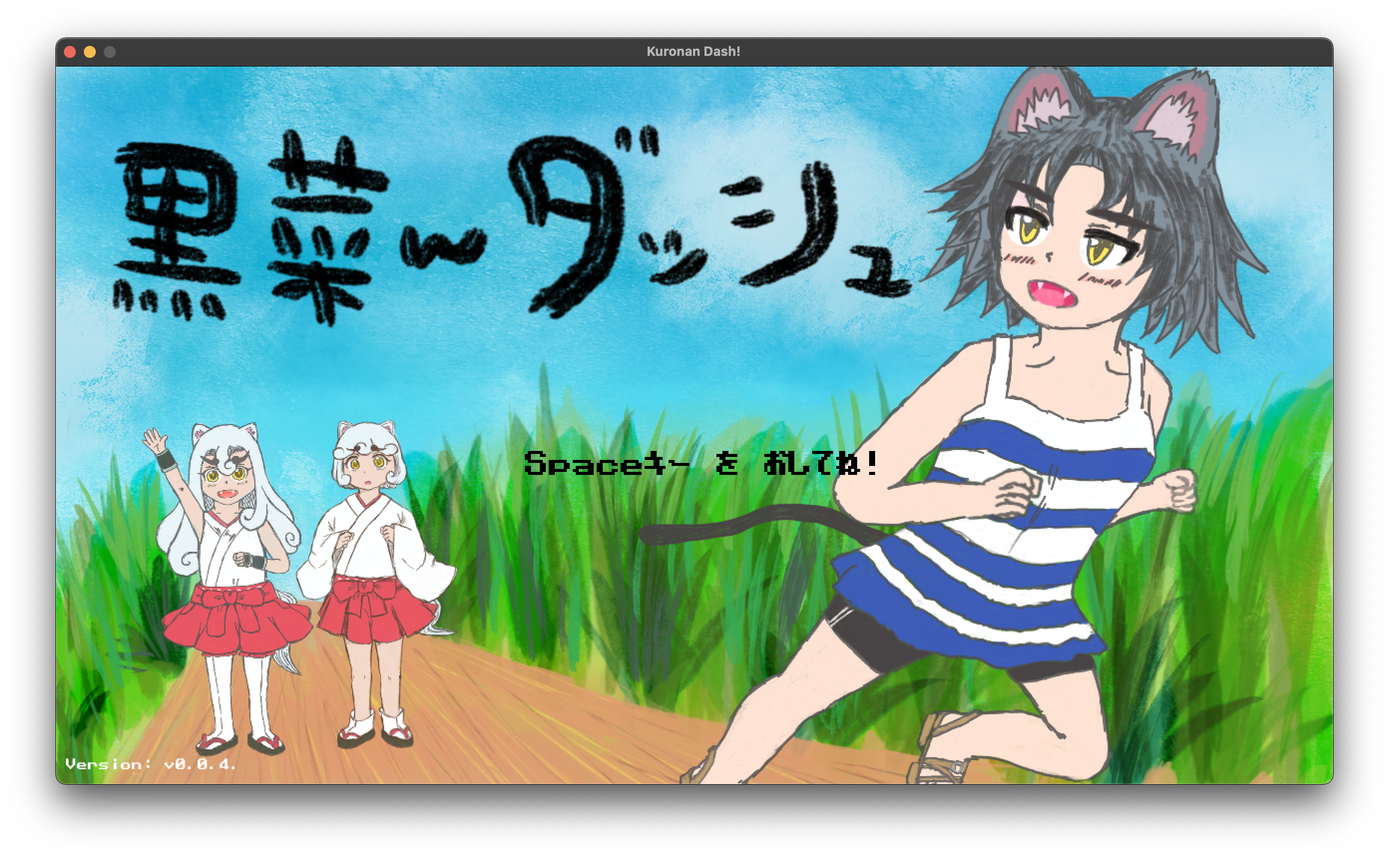
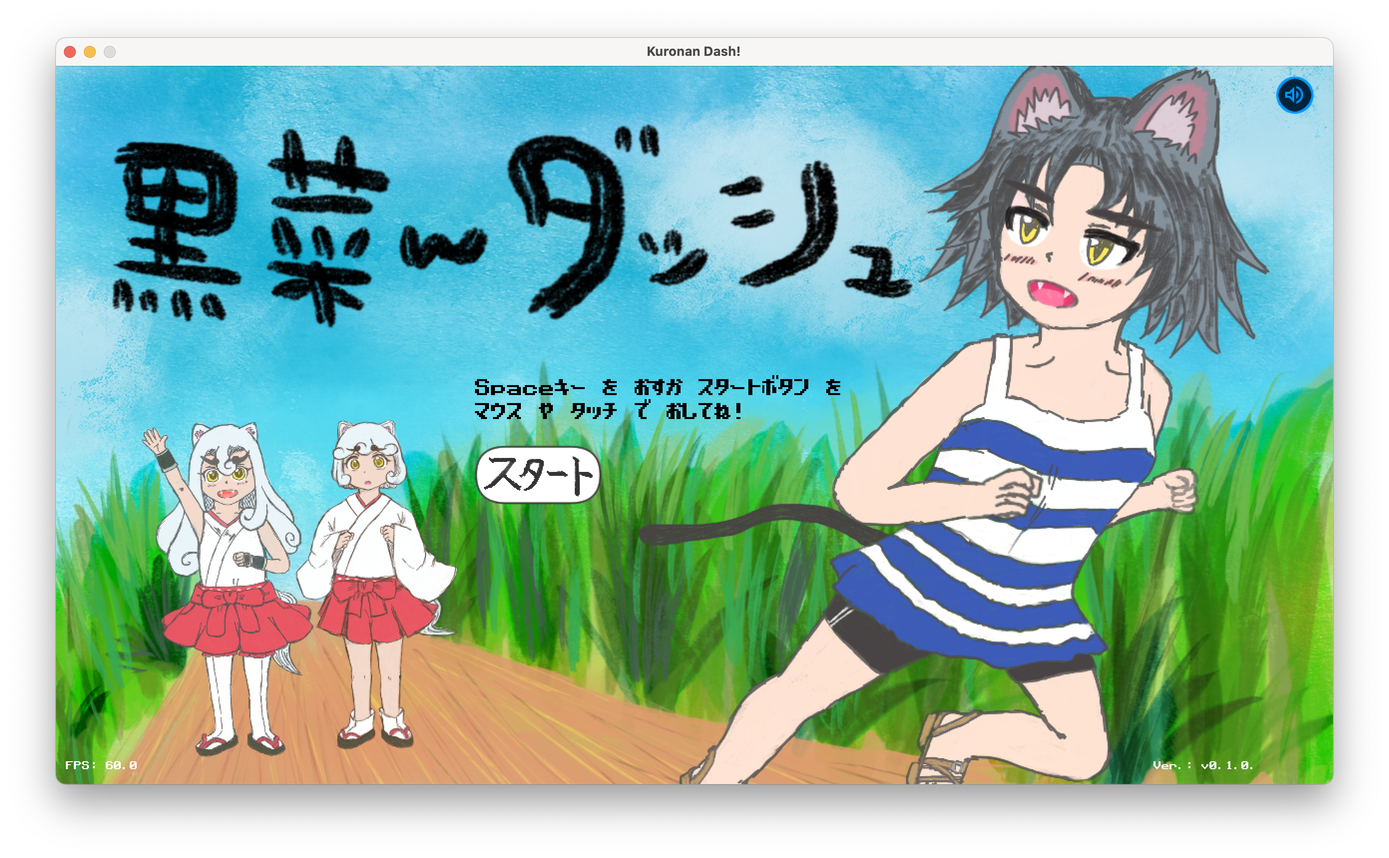
docs: update screen sample and description

Changed region(s): [[0.0312, 0.0308, 0.9688, 0.9552], [0.3438, 0.4314, 0.625, 0.5855]]

diff --git a/assets/messages/ui_texts.go b/assets/messages/ui_texts.go
@@ -2,13 +2,14 @@ package messages
 
 // Texts for UI
 const (
-	TitleStart      = "Spaceキー を おしてね！ \nマウスクリック でも OK!"
-	SelectStart     = "さゆう の カーソルキー で キャラクター を えらんで スペースキー を おしてね！ マウスクリック でも OK!"
-	GameStart       = "Spaceキー を おすか スタートボタン を\nマウス で おして ゲーム を はじめよう！"
+	TitleStart      = "Spaceキー を おすか スタートボタン を\nマウス や タッチ で おしてね！"
+	SelectStart     = "さゆう の カーソルキー を おすか マウス や タッチ で キャラ を えらんだら スペースキー を おすか しゅっぱつボタン を おしてね"
+	GameStart       = "Spaceキー を おすか\nボタン を マウス や タッチ で おしてね！"
 	GameReady       = "Ready?"
 	GameGo          = "Go!"
 	GamePause       = "いちじ ていし しているよ！"
-	GameStageClear  = "やったね！ステージクリアーだよ！"
-	GameStageClear2 = "Spaceキー を おすか マウス を クリック して つぎのステージへすすもう。"
-	GameOver        = "ゲームオーバー！ Spaceキー を おして タイトル へ もどろう"
+	GameStageClear  = "やったね！ ステージクリアー だよ！"
+	GameStageClear2 = "Spaceキー を おすか マウス や タッチ で ボタン を おして"
+	GameStageClear3 = "つぎの ステージ へ すすもう。"
+	GameOver        = "ゲームオーバー！ Spaceキー を おすか ボタン を おして タイトル へ もどろう"
 )

diff --git a/internal/scenes/scene_title.go b/internal/scenes/scene_title.go
@@ -14,6 +14,7 @@ import (
 	vpad "github.com/kemokemo/ebiten-virtualpad"
 	"github.com/kemokemo/kuronan-dash/assets/fonts"
 	"github.com/kemokemo/kuronan-dash/assets/images"
+	"github.com/kemokemo/kuronan-dash/assets/messages"
 	"github.com/kemokemo/kuronan-dash/assets/music"
 	"github.com/kemokemo/kuronan-dash/assets/se"
 	"github.com/kemokemo/kuronan-dash/internal/input"
@@ -54,7 +55,7 @@ func (s *TitleScene) Initialize() error {
 		X: float64(view.ScreenWidth/2) - 200,
 		Y: float64(view.ScreenHeight/2) + 50}
 	s.startTitleBtn = vpad.NewTriggerButton(images.StartTitleButton, vpad.JustReleased, vpad.SelectColor)
-	s.startTitleBtn.SetLocation(view.ScreenWidth/2-64, view.ScreenHeight/2-30)
+	s.startTitleBtn.SetLocation(view.ScreenWidth/2-220, view.ScreenHeight/2+20)
 	s.startTitleBtn.SetTriggerButton([]ebiten.Key{ebiten.KeySpace})
 	s.volumeBtn = vpad.NewSelectButton(images.VolumeOffButton, vpad.JustPressed, vpad.SelectColor)
 	s.volumeBtn.SetLocation(view.ScreenWidth-58, 10)
@@ -129,6 +130,7 @@ func (s *TitleScene) Draw(screen *ebiten.Image) {
 	text.Draw(screen, versionInfo, fonts.GamerFontSS, view.ScreenWidth-180, view.ScreenHeight-15, color.White)
 	s.startTitleBtn.Draw(screen)
 	s.volumeBtn.Draw(screen)
+	text.Draw(screen, messages.TitleStart, fonts.GamerFontM, view.ScreenWidth/2-220, view.ScreenHeight/2-30, color.Black)
 
 	if s.isStarting || s.isClosing {
 		s.curtain.Draw(screen)

diff --git a/internal/scenes/scene_stage01.go b/internal/scenes/scene_stage01.go
@@ -388,7 +388,8 @@ func (s *Stage01Scene) drawWithState(screen *ebiten.Image) {
 		text.Draw(screen, fmt.Sprintf("Music: %s", s.disc.Name), fonts.GamerFontS, 10, 20, color.White)
 		screen.DrawImage(s.pauseBg, s.pauseBgOp)
 		text.Draw(screen, messages.GameStageClear, fonts.GamerFontL, view.ScreenWidth/2-200, view.ScreenHeight/2-134, color.White)
-		text.Draw(screen, messages.GameStageClear2, fonts.GamerFontL, view.ScreenWidth/2-500, view.ScreenHeight/2+30, color.White)
+		text.Draw(screen, messages.GameStageClear2, fonts.GamerFontL, view.ScreenWidth/2-400, view.ScreenHeight/2+30, color.White)
+		text.Draw(screen, messages.GameStageClear3, fonts.GamerFontL, view.ScreenWidth/2-180, view.ScreenHeight/2+75, color.White)
 		s.startBtn.Draw(screen)
 	case gameOver:
 		text.Draw(screen, fmt.Sprintf("Now Playing: %s", s.disc.Name),

diff --git a/README.md b/README.md
@@ -1,7 +1,6 @@
 # 黒菜んダッシュ :dash:
 
 [![License](https://img.shields.io/github/license/kemokemo/kuronan-dash)](https://opensource.org/licenses/Apache-2.0) [![Go Version](https://img.shields.io/github/go-mod/go-version/kemokemo/kuronan-dash)](https://github.com/kemokemo/kuronan-dash/blob/main/go.mod) [![Go Report Card](https://goreportcard.com/badge/github.com/kemokemo/kuronan-dash)](https://goreportcard.com/report/github.com/kemokemo/kuronan-dash) [![LatestVersion](https://img.shields.io/github/v/release/kemokemo/kuronan-dash?color=8783f7)](https://github.com/kemokemo/kuronan-dash/releases/latest) [![OpenIssues](https://img.shields.io/github/issues-raw/kemokemo/kuronan-dash?color=fca438)](https://github.com/kemokemo/kuronan-dash/issues)
-[![Test and Build](https://github.com/kemokemo/kuronan-dash/actions/workflows/test-and-build.yml/badge.svg)](https://github.com/kemokemo/kuronan-dash/actions/workflows/test-and-build.yml) ![Deploy GitHub pages](https://github.com/kemokemo/kuronan-dash/workflows/Deploy%20GitHub%20pages/badge.svg)
 
 ## 概要
 
@@ -12,22 +11,25 @@
 
 ## ゲーム紹介
 
-タイトル画面です。`Space`キーまたはマウスの左クリックでキャラクター選択画面へと進みます。
+タイトル画面です。キーボードの`Space`キーを押すか、`スタート`ボタンをマウスやタッチで押します。
 
 ![TitleScreen](media/title_screen.png)
 
-キャラクターを1人選びます。選択可能なキャラクターは「黒菜」「独楽」「獅子丸」の3人です。
-キーボードの矢印キーの左右でキャラクターを選択して、`Space`キーで選択します。
-マウスをキャラクターの枠の内側に持っていって左クリックしても選択できます。
+キャラクター選択画面です。「黒菜」「独楽」「獅子丸」の3人から1人選びましょう。
+キーボードの矢印キーの左右を押すか、キャラクターの枠をマウスやタッチで押してキャラクターを選択します。
+キーボードの`Space`キーを押すか、`しゅっぱつ!`ボタンをマウスやタッチで押して進みます。
 
 ![SelectScreen](media/select_screen.png)
 
-コースをダッシュで走り抜けます。`Space`キーまたはマウスの左クリックでゲームを開始します。
-キーボードの矢印キーの上下または、マウスの左クリックでレーンを移動しながら進み、タイムがゼロになる前にゴールまでたどり着けたらステージクリアです。岩などの障害物に当たっている間やスタミナが`0`の間は走れなくなり、速度がゆっくりになります。
+コースをダッシュで走り抜けます。`Space`キーまたはマウスやタッチで開始ボタンを押してゲームを開始します。
+
+キーボードの矢印キーの上下、マウスで別の高さのエリアを左クリック、`うえへ`や`したへ`のボタンをタッチしてレーンを上下に移動しながら進み、タイムがゼロになる前にゴールまでたどり着けたらステージクリアです。岩などの障害物に当たっている間やスタミナが`0`の間は走れなくなり、速度がゆっくりになります。
 
 ![GameScreenKurona](media/game_screen_kurona.png)
 
-`Space`キーまたはマウスの右クリックで一時停止ができます。
+`Space`キーまたは右上のポーズボタンをマウスやタッチで押すと一時停止ができます。
+
+岩などの障害物は`A`キーを押すかマウスの右クリック、`こうげき`ボタンをタッチするなどして攻撃を繰り出すことで壊せます。テンションゲージがMaxになったら、`S`キーを押すかマウスダブルクリック、`スキル`ボタンをタッチしてスキルを発動して速度などをあげて走ることができます。
 
 ### プレイ方法
 
